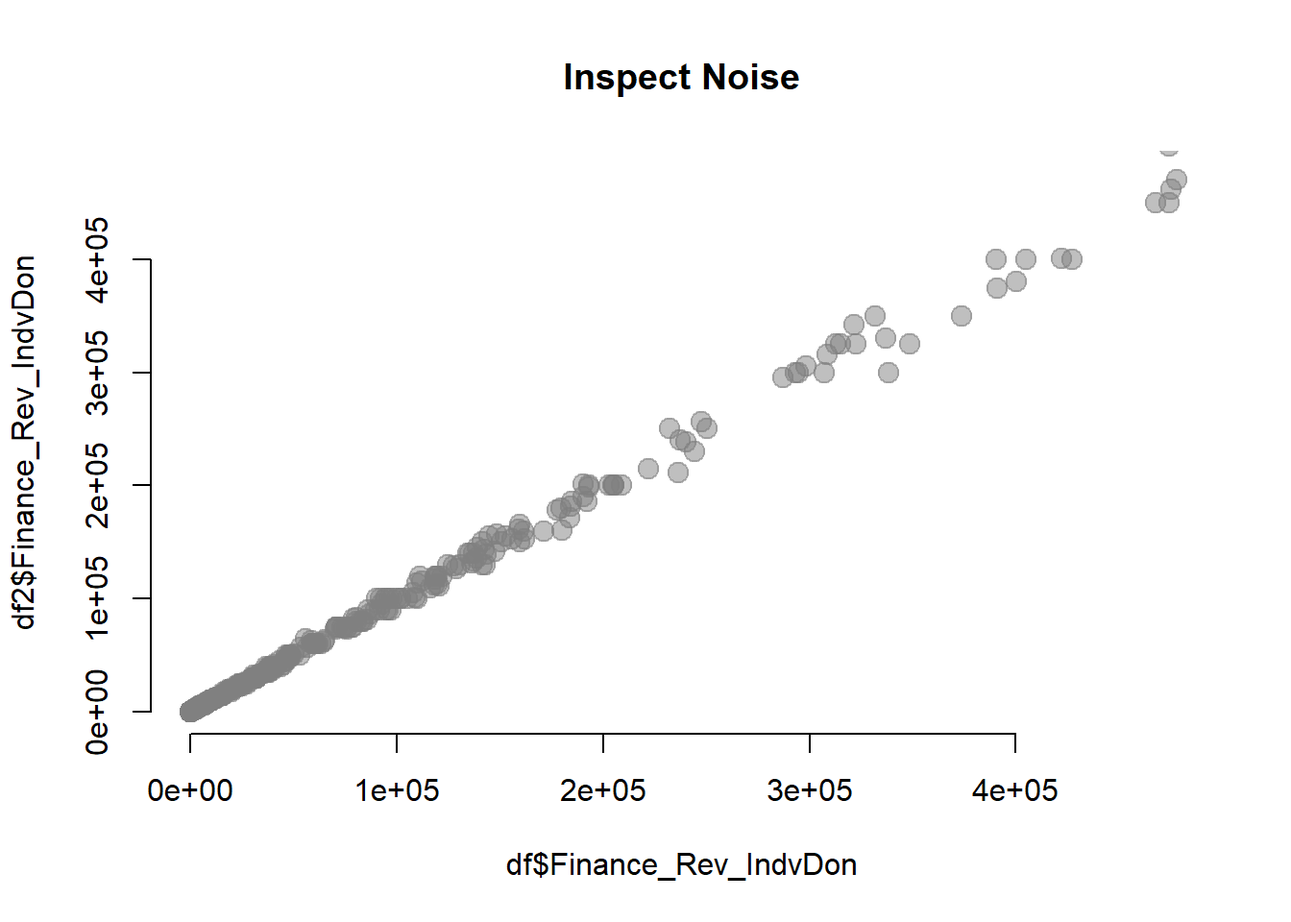
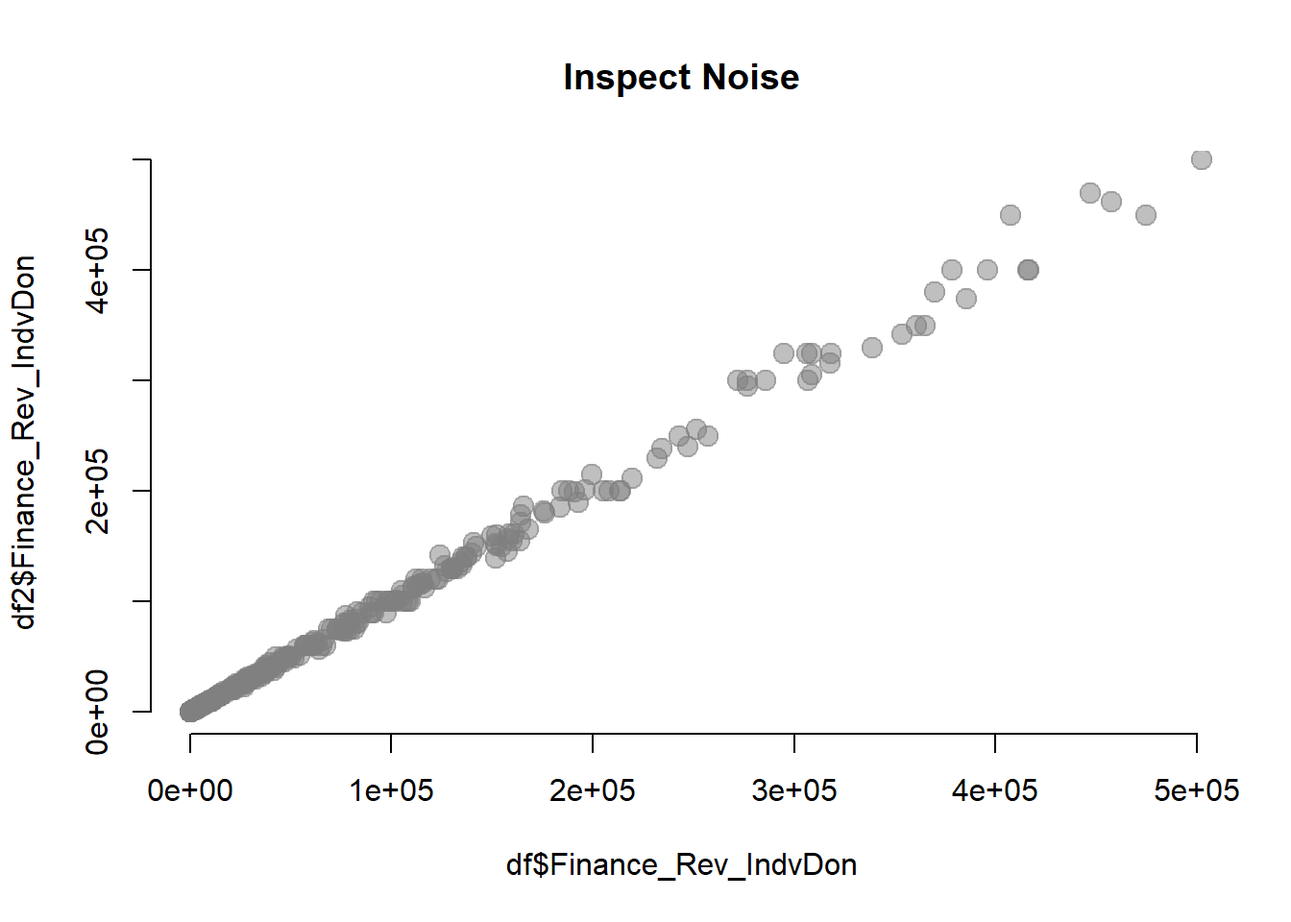
update PUF

diff --git a/data-guidebook/GUIDEBOOK/3_04-prepping-puf-y3.html b/data-guidebook/GUIDEBOOK/3_04-prepping-puf-y3.html
@@ -250,18 +250,6 @@ pre > code.sourceCode > span > a:first-child::before { text-decoration: underlin
  <span class="menu-text"><span class="chapter-number">12</span>&nbsp; <span class="chapter-title">Address Validation</span></span></a>
   </div>
 </li>
-          <li class="sidebar-item">
-  <div class="sidebar-item-container"> 
-  <a href="./4_02-geocoding-addresses.html" class="sidebar-item-text sidebar-link">
- <span class="menu-text"><span class="chapter-number">13</span>&nbsp; <span class="chapter-title">Geocoding Addresses</span></span></a>
-  </div>
-</li>
-          <li class="sidebar-item">
-  <div class="sidebar-item-container"> 
-  <a href="./4_03-adding-geographies.html" class="sidebar-item-text sidebar-link">
- <span class="menu-text"><span class="chapter-number">14</span>&nbsp; <span class="chapter-title">Adding Census Data</span></span></a>
-  </div>
-</li>
       </ul>
   </li>
         <li class="sidebar-item sidebar-item-section">
@@ -341,81 +329,82 @@ pre > code.sourceCode > span > a:first-child::before { text-decoration: underlin
 <span id="cb2-7"><a href="#cb2-7" aria-hidden="true" tabindex="-1"></a>    <span class="st">"Staff_Other_Est_NA"</span>, <span class="st">"FndRaise_Text"</span>, <span class="st">"Finance_Rev_Oth_Text"</span>, </span>
 <span id="cb2-8"><a href="#cb2-8" aria-hidden="true" tabindex="-1"></a>    <span class="st">"FinanceChng_Text"</span>, <span class="st">"LeadershipChng_Oth_Text"</span>, <span class="st">"CEOrace_Text"</span>, </span>
 <span id="cb2-9"><a href="#cb2-9" aria-hidden="true" tabindex="-1"></a>    <span class="st">"BChairrace_Text"</span>, <span class="st">"Regulations_Other_TEXT"</span>, <span class="st">"CEOrace_Text_v2022"</span>, </span>
-<span id="cb2-10"><a href="#cb2-10" aria-hidden="true" tabindex="-1"></a>    <span class="st">"BChairrace_Text_v2022"</span> )</span>
-<span id="cb2-11"><a href="#cb2-11" aria-hidden="true" tabindex="-1"></a>    </span>
-<span id="cb2-12"><a href="#cb2-12" aria-hidden="true" tabindex="-1"></a>keep <span class="ot">&lt;-</span> </span>
-<span id="cb2-13"><a href="#cb2-13" aria-hidden="true" tabindex="-1"></a>  <span class="fu">c</span>(<span class="st">"PrgSrvc_IncrNum"</span>, <span class="st">"PrgSrvc_DcrsNum"</span>, <span class="st">"PrgSrvc_Suspend"</span>, <span class="st">"PrgSrvc_IncrSrvc"</span>, </span>
-<span id="cb2-14"><a href="#cb2-14" aria-hidden="true" tabindex="-1"></a>    <span class="st">"PrgSrvc_DcrsSrvc"</span>, <span class="st">"PrgSrvc_NewOffc"</span>, <span class="st">"PrgSrvc_ClsdOffc"</span>, <span class="st">"PrgSrvc_IncrArea"</span>, </span>
-<span id="cb2-15"><a href="#cb2-15" aria-hidden="true" tabindex="-1"></a>    <span class="st">"PrgSrvc_DcrsArea"</span>, <span class="st">"PrgSrvc_IncrFee"</span>, <span class="st">"PrgSrvc_DcrsFee"</span>, <span class="st">"PrgSrvc_ShiftOnline"</span>, </span>
-<span id="cb2-16"><a href="#cb2-16" aria-hidden="true" tabindex="-1"></a>    <span class="st">"PrgSrvc_AddOnline"</span>, <span class="st">"PrgSrvc_Oth"</span>, <span class="st">"PplSrv_NumServed"</span>, <span class="st">"PplSrv_NumWait"</span>, </span>
-<span id="cb2-17"><a href="#cb2-17" aria-hidden="true" tabindex="-1"></a>    <span class="st">"PplSrv_NumServed_NA_X"</span>, <span class="st">"PplSrv_NumWait_NA_X"</span>, <span class="st">"Dmnd_NxtYear"</span>, </span>
-<span id="cb2-18"><a href="#cb2-18" aria-hidden="true" tabindex="-1"></a>    <span class="st">"Staff_Fulltime_2022"</span>, <span class="st">"Staff_Parttime_2022"</span>, <span class="st">"Staff_Boardmmbr_2022"</span>, </span>
-<span id="cb2-19"><a href="#cb2-19" aria-hidden="true" tabindex="-1"></a>    <span class="st">"Staff_RegVlntr_2022"</span>, <span class="st">"Staff_EpsdVltnr_2022"</span>, <span class="st">"Staff_AmerVlntr_2022"</span>, </span>
-<span id="cb2-20"><a href="#cb2-20" aria-hidden="true" tabindex="-1"></a>    <span class="st">"Staff_PdCnslt_2022"</span>, <span class="st">"Staff_Other_Est_2022"</span>, <span class="st">"Staff_Fulltime_2023"</span>, </span>
-<span id="cb2-21"><a href="#cb2-21" aria-hidden="true" tabindex="-1"></a>    <span class="st">"Staff_Parttime_2023"</span>, <span class="st">"Staff_Boardmmbr_2023"</span>, <span class="st">"Staff_RegVlntr_2023"</span>, </span>
-<span id="cb2-22"><a href="#cb2-22" aria-hidden="true" tabindex="-1"></a>    <span class="st">"Staff_EpsdVltnr_2023"</span>, <span class="st">"Staff_AmerVlntr_2023"</span>, <span class="st">"Staff_PdCnslt_2023"</span>, </span>
-<span id="cb2-23"><a href="#cb2-23" aria-hidden="true" tabindex="-1"></a>    <span class="st">"Staff_Other_Est_2023"</span>, <span class="st">"Staff_Fulltime_NA"</span>, <span class="st">"Staff_Parttime_NA"</span>, </span>
-<span id="cb2-24"><a href="#cb2-24" aria-hidden="true" tabindex="-1"></a>    <span class="st">"Staff_Boardmmbr_NA"</span>, <span class="st">"Staff_RegVlntr_NA"</span>, <span class="st">"Staff_EpsdVltnr_NA"</span>, </span>
-<span id="cb2-25"><a href="#cb2-25" aria-hidden="true" tabindex="-1"></a>    <span class="st">"Staff_AmerVlntr_NA"</span>, <span class="st">"Staff_PdCnslt_NA"</span>,  <span class="st">"Staff_Other_Text_NA"</span>,</span>
-<span id="cb2-26"><a href="#cb2-26" aria-hidden="true" tabindex="-1"></a>    <span class="st">"VolImportance"</span>, <span class="st">"DonImportance"</span>, <span class="st">"FndRaise_DvlpVirtual"</span>, <span class="st">"FndRaise_IncrExp"</span>, </span>
-<span id="cb2-27"><a href="#cb2-27" aria-hidden="true" tabindex="-1"></a>    <span class="st">"FndRaise_DcrsExp"</span>, <span class="st">"FndRaise_IncStaff"</span>, <span class="st">"FndRaise_DcrsStaff"</span>, </span>
-<span id="cb2-28"><a href="#cb2-28" aria-hidden="true" tabindex="-1"></a>    <span class="st">"FndRaise_IncrCnslt"</span>, <span class="st">"FndRaise_DcrsCnslt"</span>, <span class="st">"FndRaise_IncrVolntr"</span>, </span>
-<span id="cb2-29"><a href="#cb2-29" aria-hidden="true" tabindex="-1"></a>    <span class="st">"FndRaise_DcrsVolntr"</span>, <span class="st">"FndRaise_Othr"</span>, <span class="st">"FndRaise_MajGift_Amt"</span>, </span>
-<span id="cb2-30"><a href="#cb2-30" aria-hidden="true" tabindex="-1"></a>    <span class="st">"FndRaise_Overall_Chng"</span>, <span class="st">"FndRaise_Cashbelow250_Chng"</span>, <span class="st">"FndRaise_Cashabove250_Chng"</span>, </span>
-<span id="cb2-31"><a href="#cb2-31" aria-hidden="true" tabindex="-1"></a>    <span class="st">"FndRaise_MajGift_Chng"</span>, <span class="st">"FndRaise_Corp_Found_Grnt_Chng"</span>, <span class="st">"FndRaise_RstrGift_Chng"</span>, </span>
-<span id="cb2-32"><a href="#cb2-32" aria-hidden="true" tabindex="-1"></a>    <span class="st">"FndRaise_UnrstrGift_Chng"</span>, <span class="st">"FndRaise_DnrBlw250"</span>, <span class="st">"FndRaise_DnrAbv250"</span>, </span>
-<span id="cb2-33"><a href="#cb2-33" aria-hidden="true" tabindex="-1"></a>    <span class="st">"FndRaise_LocGvtGrnt_Seek"</span>, <span class="st">"FndRaise_StateGvtGrnt_Seek"</span>, <span class="st">"FndRaise_FedGvtGrnt_Seek"</span>, </span>
-<span id="cb2-34"><a href="#cb2-34" aria-hidden="true" tabindex="-1"></a>    <span class="st">"FndRaise_LocGvtCntrct_Seek"</span>, <span class="st">"FndRaise_StateGvtCntrct_Seek"</span>, </span>
-<span id="cb2-35"><a href="#cb2-35" aria-hidden="true" tabindex="-1"></a>    <span class="st">"FndRaise_FedGvtCntrct_Seek"</span>, <span class="st">"FndRaise_PFGrnt_Seek"</span>, <span class="st">"FndRaise_CFGrnt_Seek"</span>, </span>
-<span id="cb2-36"><a href="#cb2-36" aria-hidden="true" tabindex="-1"></a>    <span class="st">"FndRaise_DAF_Seek"</span>, <span class="st">"FndRaise_Corp_Found_Grnt_Seek"</span>, <span class="st">"FndRaise_UntdWy_Seek"</span>, </span>
-<span id="cb2-37"><a href="#cb2-37" aria-hidden="true" tabindex="-1"></a>    <span class="st">"FndRaise_CombFedCmpgn_Seek"</span>, <span class="st">"FndRaise_OthrGvngPrgrm_Seek"</span>, </span>
-<span id="cb2-38"><a href="#cb2-38" aria-hidden="true" tabindex="-1"></a>    <span class="st">"FndRaise_LocGvtGrnt_Rcv"</span>, <span class="st">"FndRaise_StateGvtGrnt_Rcv"</span>, <span class="st">"FndRaise_FedGvtGrnt_Rcv"</span>, </span>
-<span id="cb2-39"><a href="#cb2-39" aria-hidden="true" tabindex="-1"></a>    <span class="st">"FndRaise_LocGvtCntrct_Rcv"</span>, <span class="st">"FndRaise_StateGvtCntrct_Rcv"</span>, <span class="st">"FndRaise_FedGvtCntrct_Rcv"</span>, </span>
-<span id="cb2-40"><a href="#cb2-40" aria-hidden="true" tabindex="-1"></a>    <span class="st">"FndRaise_PFGrnt_Rcv"</span>, <span class="st">"FndRaise_CFGrnt_Rcv"</span>, <span class="st">"FndRaise_DAF_Rcv"</span>, </span>
-<span id="cb2-41"><a href="#cb2-41" aria-hidden="true" tabindex="-1"></a>    <span class="st">"FndRaise_Corp_Found_Grnt_Rcv"</span>, <span class="st">"FndRaise_UntdWy_Rcv"</span>, <span class="st">"FndRaise_CombFedCmpgn_Rcv"</span>, </span>
-<span id="cb2-42"><a href="#cb2-42" aria-hidden="true" tabindex="-1"></a>    <span class="st">"FndRaise_OthrGvngPrgrm_Rcv"</span>, <span class="st">"Finance_Rev_GovtMain"</span>, <span class="st">"Finance_Rev_Prtcpnt"</span>, </span>
-<span id="cb2-43"><a href="#cb2-43" aria-hidden="true" tabindex="-1"></a>    <span class="st">"Finance_Rev_IndvDon"</span>, <span class="st">"Finance_Rev_Gift"</span>, <span class="st">"Finance_Rev_Grnt"</span>, </span>
-<span id="cb2-44"><a href="#cb2-44" aria-hidden="true" tabindex="-1"></a>    <span class="st">"Finance_Rev_Spnsr"</span>, <span class="st">"Finance_Rev_Oth"</span>, <span class="st">"Reserves_Est"</span>, <span class="st">"Reserves_NA_X"</span>, </span>
-<span id="cb2-45"><a href="#cb2-45" aria-hidden="true" tabindex="-1"></a>    <span class="st">"CARES_Rcv"</span>, <span class="st">"CARES_Rcv_Est"</span>, <span class="st">"FinanceChng_Reserves"</span>, <span class="st">"FinanceChng_Borrow"</span>, </span>
-<span id="cb2-46"><a href="#cb2-46" aria-hidden="true" tabindex="-1"></a>    <span class="st">"FinanceChng_DcrsBnft"</span>, <span class="st">"FinanceChng_IncrBnft"</span>, <span class="st">"FinanceChng_IncrExp"</span>, </span>
-<span id="cb2-47"><a href="#cb2-47" aria-hidden="true" tabindex="-1"></a>    <span class="st">"FinanceChng_DcrsExp"</span>, <span class="st">"FinanceChng_Oth"</span>, <span class="st">"LeadershipChng_RetCEO"</span>, </span>
-<span id="cb2-48"><a href="#cb2-48" aria-hidden="true" tabindex="-1"></a>    <span class="st">"LeadershipChng_RsgnCEO"</span>, <span class="st">"LeadershipChng_TrmnCEO"</span>, <span class="st">"LeadershipChng_HireCEO"</span>, </span>
-<span id="cb2-49"><a href="#cb2-49" aria-hidden="true" tabindex="-1"></a>    <span class="st">"LeadershipChng_IntrmCEO"</span>, <span class="st">"LeadershipChng_ChngBC"</span>, <span class="st">"LeadershipChng_LostBoardMem"</span>, </span>
-<span id="cb2-50"><a href="#cb2-50" aria-hidden="true" tabindex="-1"></a>    <span class="st">"LeadershipChng_RplcBoardMem"</span>, <span class="st">"LeadershipChng_AddBoardMem"</span>, </span>
-<span id="cb2-51"><a href="#cb2-51" aria-hidden="true" tabindex="-1"></a>    <span class="st">"LeadershipChng_Oth"</span>, <span class="st">"CEOrace_AAPI"</span>, <span class="st">"CEOrace_Black"</span>, <span class="st">"CEOrace_Hisp"</span>, </span>
-<span id="cb2-52"><a href="#cb2-52" aria-hidden="true" tabindex="-1"></a>    <span class="st">"CEOrace_NativeAm"</span>, <span class="st">"CEOrace_White"</span>, <span class="st">"CEOrace_Oth"</span>, <span class="st">"CEOgender_Man"</span>, </span>
-<span id="cb2-53"><a href="#cb2-53" aria-hidden="true" tabindex="-1"></a>    <span class="st">"CEOgender_Woman"</span>, <span class="st">"CEOgender_Trans"</span>, <span class="st">"CEOgender_NB"</span>, <span class="st">"CEOgender_Oth"</span>, </span>
-<span id="cb2-54"><a href="#cb2-54" aria-hidden="true" tabindex="-1"></a>    <span class="st">"CEOgender_specify"</span>, <span class="st">"BChairrace_AAPI"</span>, <span class="st">"BChairrace_Black"</span>, <span class="st">"BChairrace_Hisp"</span>, </span>
-<span id="cb2-55"><a href="#cb2-55" aria-hidden="true" tabindex="-1"></a>    <span class="st">"BChairrace_NativeAm"</span>, <span class="st">"BChairrace_White"</span>, <span class="st">"BChairrace_Oth"</span>, </span>
-<span id="cb2-56"><a href="#cb2-56" aria-hidden="true" tabindex="-1"></a>    <span class="st">"BChairgender_Man"</span>, <span class="st">"BChairgender_Woman"</span>, <span class="st">"BChairgender_Trans"</span>, </span>
-<span id="cb2-57"><a href="#cb2-57" aria-hidden="true" tabindex="-1"></a>    <span class="st">"BChairgender_NB"</span>, <span class="st">"BChairgender_Oth"</span>, <span class="st">"BChairgender_specify"</span>, </span>
-<span id="cb2-58"><a href="#cb2-58" aria-hidden="true" tabindex="-1"></a>    <span class="st">"ExtAffairs_GenEd"</span>, <span class="st">"ExtAffairs_Media"</span>, <span class="st">"ExtAffairs_Advocacy"</span>, </span>
-<span id="cb2-59"><a href="#cb2-59" aria-hidden="true" tabindex="-1"></a>    <span class="st">"ExtAffairs_GovtRs"</span>, <span class="st">"ExtAffairs_DiscGovtGrnt"</span>, <span class="st">"ExtAffairs_InfoReq"</span>, </span>
-<span id="cb2-60"><a href="#cb2-60" aria-hidden="true" tabindex="-1"></a>    <span class="st">"ExtAffairs_Testify"</span>, <span class="st">"ExtAffairs_Lobby"</span>, <span class="st">"ExtAffairs_OrgPrtst"</span>, </span>
-<span id="cb2-61"><a href="#cb2-61" aria-hidden="true" tabindex="-1"></a>    <span class="st">"ExtAffairs_Mobilize"</span>, <span class="st">"ExtAffairs_Petition"</span>, <span class="st">"ExtAffairs_VoteReg"</span>, </span>
-<span id="cb2-62"><a href="#cb2-62" aria-hidden="true" tabindex="-1"></a>    <span class="st">"ExtAffairs_VoteEd"</span>, <span class="st">"Regulations"</span>, <span class="st">"Regulations_Local"</span>, <span class="st">"Regulations_State"</span>, </span>
-<span id="cb2-63"><a href="#cb2-63" aria-hidden="true" tabindex="-1"></a>    <span class="st">"Regulations_Federal"</span>, <span class="st">"Regulations_Info"</span>, <span class="st">"Regulations_Programming"</span>, </span>
-<span id="cb2-64"><a href="#cb2-64" aria-hidden="true" tabindex="-1"></a>    <span class="st">"Regulations_Forms"</span>, <span class="st">"Regulations_Requests"</span>, <span class="st">"Regulations_Advocate"</span>, </span>
-<span id="cb2-65"><a href="#cb2-65" aria-hidden="true" tabindex="-1"></a>    <span class="st">"Regulations_Research"</span>, <span class="st">"Regulations_Other"</span>, <span class="st">"PrimaryConcern"</span>, </span>
-<span id="cb2-66"><a href="#cb2-66" aria-hidden="true" tabindex="-1"></a>    <span class="st">"StaffingPlans_HireDifferent"</span>, <span class="st">"StaffingPlans_HireSame"</span>, <span class="st">"StaffingPlans_Layoff"</span>, </span>
-<span id="cb2-67"><a href="#cb2-67" aria-hidden="true" tabindex="-1"></a>    <span class="st">"StaffingPlans_SlowDown"</span>, <span class="st">"StaffingPlans_SpeedUp"</span>, <span class="st">"StaffingPlans_LoseVoluntary"</span>, </span>
-<span id="cb2-68"><a href="#cb2-68" aria-hidden="true" tabindex="-1"></a>    <span class="st">"StaffingPlans_LoseRetirement"</span>, <span class="st">"StaffingPlans_Retrain"</span>, <span class="st">"StaffingPlans_NoChange"</span>, </span>
-<span id="cb2-69"><a href="#cb2-69" aria-hidden="true" tabindex="-1"></a>    <span class="st">"StaffingPlans_DK"</span>, <span class="st">"ContactUpdateName"</span>, <span class="st">"ContactUpdateTitle"</span>, </span>
-<span id="cb2-70"><a href="#cb2-70" aria-hidden="true" tabindex="-1"></a>    <span class="st">"ContactUpdateEmail"</span>, <span class="st">"Comments"</span>, <span class="st">"year3wt"</span>, <span class="st">"Staff_Fulltime_2023_imp"</span>, </span>
-<span id="cb2-71"><a href="#cb2-71" aria-hidden="true" tabindex="-1"></a>    <span class="st">"Staff_Parttime_2023_imp"</span>, <span class="st">"Staff_Boardmmbr_2023_imp"</span>, <span class="st">"Staff_RegVlntr_2023_imp"</span>, </span>
-<span id="cb2-72"><a href="#cb2-72" aria-hidden="true" tabindex="-1"></a>    <span class="st">"Staff_EpsdVltnr_2023_imp"</span>, <span class="st">"Staff_AmerVlntr_2023_imp"</span>, <span class="st">"Staff_PdCnslt_2023_imp"</span>, </span>
-<span id="cb2-73"><a href="#cb2-73" aria-hidden="true" tabindex="-1"></a>    <span class="st">"CEOrace_AAPI_v2022"</span>, <span class="st">"CEOrace_Black_v2022"</span>, <span class="st">"CEOrace_Hisp_v2022"</span>, </span>
-<span id="cb2-74"><a href="#cb2-74" aria-hidden="true" tabindex="-1"></a>    <span class="st">"CEOrace_NativeAm_v2022"</span>, <span class="st">"CEOrace_White_v2022"</span>, <span class="st">"CEOrace_Oth_v2022"</span>, </span>
-<span id="cb2-75"><a href="#cb2-75" aria-hidden="true" tabindex="-1"></a>    <span class="st">"CEOgender_Man_v2022"</span>, <span class="st">"CEOgender_Woman_v2022"</span>, <span class="st">"CEOgender_Trans_v2022"</span>, </span>
-<span id="cb2-76"><a href="#cb2-76" aria-hidden="true" tabindex="-1"></a>    <span class="st">"CEOgender_NB_v2022"</span>, <span class="st">"CEOgender_Oth_v2022"</span>, <span class="st">"CEOgender_specify_v2022"</span>, </span>
-<span id="cb2-77"><a href="#cb2-77" aria-hidden="true" tabindex="-1"></a>    <span class="st">"BChairrace_AAPI_v2022"</span>, <span class="st">"BChairrace_Black_v2022"</span>, <span class="st">"BChairrace_Hisp_v2022"</span>, </span>
-<span id="cb2-78"><a href="#cb2-78" aria-hidden="true" tabindex="-1"></a>    <span class="st">"BChairrace_NativeAm_v2022"</span>, <span class="st">"BChairrace_White_v2022"</span>, <span class="st">"BChairrace_Oth_v2022"</span>, </span>
-<span id="cb2-79"><a href="#cb2-79" aria-hidden="true" tabindex="-1"></a>    <span class="st">"BChairgender_Man_v2022"</span>, <span class="st">"BChairgender_Woman_v2022"</span>, <span class="st">"BChairgender_Trans_v2022"</span>, </span>
-<span id="cb2-80"><a href="#cb2-80" aria-hidden="true" tabindex="-1"></a>    <span class="st">"BChairgender_NB_v2022"</span>, <span class="st">"BChairgender_Oth_v2022"</span>, <span class="st">"BChairgender_specify_v2022"</span>, </span>
-<span id="cb2-81"><a href="#cb2-81" aria-hidden="true" tabindex="-1"></a>    <span class="st">"CEOrace_Bi"</span>, <span class="st">"BChairrace_Bi"</span>, <span class="st">"CEOrace"</span>, <span class="st">"BChairrace"</span>, <span class="st">"CEOgender"</span>, </span>
-<span id="cb2-82"><a href="#cb2-82" aria-hidden="true" tabindex="-1"></a>    <span class="st">"BChairgender"</span>)</span>
-<span id="cb2-83"><a href="#cb2-83" aria-hidden="true" tabindex="-1"></a></span>
-<span id="cb2-84"><a href="#cb2-84" aria-hidden="true" tabindex="-1"></a>df <span class="ot">&lt;-</span> df[keep]</span></code><button title="Copy to Clipboard" class="code-copy-button"><i class="bi"></i></button></pre></div>
+<span id="cb2-10"><a href="#cb2-10" aria-hidden="true" tabindex="-1"></a>    <span class="st">"BChairrace_Text_v2022"</span>,</span>
+<span id="cb2-11"><a href="#cb2-11" aria-hidden="true" tabindex="-1"></a>    <span class="st">"ContactUpdateName"</span>, <span class="st">"ContactUpdateTitle"</span>, </span>
+<span id="cb2-12"><a href="#cb2-12" aria-hidden="true" tabindex="-1"></a>    <span class="st">"ContactUpdateEmail"</span>, <span class="st">"Comments"</span>)</span>
+<span id="cb2-13"><a href="#cb2-13" aria-hidden="true" tabindex="-1"></a>    </span>
+<span id="cb2-14"><a href="#cb2-14" aria-hidden="true" tabindex="-1"></a>keep <span class="ot">&lt;-</span> </span>
+<span id="cb2-15"><a href="#cb2-15" aria-hidden="true" tabindex="-1"></a>  <span class="fu">c</span>(<span class="st">"PrgSrvc_IncrNum"</span>, <span class="st">"PrgSrvc_DcrsNum"</span>, <span class="st">"PrgSrvc_Suspend"</span>, <span class="st">"PrgSrvc_IncrSrvc"</span>, </span>
+<span id="cb2-16"><a href="#cb2-16" aria-hidden="true" tabindex="-1"></a>    <span class="st">"PrgSrvc_DcrsSrvc"</span>, <span class="st">"PrgSrvc_NewOffc"</span>, <span class="st">"PrgSrvc_ClsdOffc"</span>, <span class="st">"PrgSrvc_IncrArea"</span>, </span>
+<span id="cb2-17"><a href="#cb2-17" aria-hidden="true" tabindex="-1"></a>    <span class="st">"PrgSrvc_DcrsArea"</span>, <span class="st">"PrgSrvc_IncrFee"</span>, <span class="st">"PrgSrvc_DcrsFee"</span>, <span class="st">"PrgSrvc_ShiftOnline"</span>, </span>
+<span id="cb2-18"><a href="#cb2-18" aria-hidden="true" tabindex="-1"></a>    <span class="st">"PrgSrvc_AddOnline"</span>, <span class="st">"PrgSrvc_Oth"</span>, <span class="st">"PplSrv_NumServed"</span>, <span class="st">"PplSrv_NumWait"</span>, </span>
+<span id="cb2-19"><a href="#cb2-19" aria-hidden="true" tabindex="-1"></a>    <span class="st">"PplSrv_NumServed_NA_X"</span>, <span class="st">"PplSrv_NumWait_NA_X"</span>, <span class="st">"Dmnd_NxtYear"</span>, </span>
+<span id="cb2-20"><a href="#cb2-20" aria-hidden="true" tabindex="-1"></a>    <span class="st">"Staff_Fulltime_2022"</span>, <span class="st">"Staff_Parttime_2022"</span>, <span class="st">"Staff_Boardmmbr_2022"</span>, </span>
+<span id="cb2-21"><a href="#cb2-21" aria-hidden="true" tabindex="-1"></a>    <span class="st">"Staff_RegVlntr_2022"</span>, <span class="st">"Staff_EpsdVltnr_2022"</span>, <span class="st">"Staff_AmerVlntr_2022"</span>, </span>
+<span id="cb2-22"><a href="#cb2-22" aria-hidden="true" tabindex="-1"></a>    <span class="st">"Staff_PdCnslt_2022"</span>, <span class="st">"Staff_Other_Est_2022"</span>, <span class="st">"Staff_Fulltime_2023"</span>, </span>
+<span id="cb2-23"><a href="#cb2-23" aria-hidden="true" tabindex="-1"></a>    <span class="st">"Staff_Parttime_2023"</span>, <span class="st">"Staff_Boardmmbr_2023"</span>, <span class="st">"Staff_RegVlntr_2023"</span>, </span>
+<span id="cb2-24"><a href="#cb2-24" aria-hidden="true" tabindex="-1"></a>    <span class="st">"Staff_EpsdVltnr_2023"</span>, <span class="st">"Staff_AmerVlntr_2023"</span>, <span class="st">"Staff_PdCnslt_2023"</span>, </span>
+<span id="cb2-25"><a href="#cb2-25" aria-hidden="true" tabindex="-1"></a>    <span class="st">"Staff_Other_Est_2023"</span>, <span class="st">"Staff_Fulltime_NA"</span>, <span class="st">"Staff_Parttime_NA"</span>, </span>
+<span id="cb2-26"><a href="#cb2-26" aria-hidden="true" tabindex="-1"></a>    <span class="st">"Staff_Boardmmbr_NA"</span>, <span class="st">"Staff_RegVlntr_NA"</span>, <span class="st">"Staff_EpsdVltnr_NA"</span>, </span>
+<span id="cb2-27"><a href="#cb2-27" aria-hidden="true" tabindex="-1"></a>    <span class="st">"Staff_AmerVlntr_NA"</span>, <span class="st">"Staff_PdCnslt_NA"</span>,  <span class="st">"Staff_Other_Text_NA"</span>,</span>
+<span id="cb2-28"><a href="#cb2-28" aria-hidden="true" tabindex="-1"></a>    <span class="st">"VolImportance"</span>, <span class="st">"DonImportance"</span>, <span class="st">"FndRaise_DvlpVirtual"</span>, <span class="st">"FndRaise_IncrExp"</span>, </span>
+<span id="cb2-29"><a href="#cb2-29" aria-hidden="true" tabindex="-1"></a>    <span class="st">"FndRaise_DcrsExp"</span>, <span class="st">"FndRaise_IncStaff"</span>, <span class="st">"FndRaise_DcrsStaff"</span>, </span>
+<span id="cb2-30"><a href="#cb2-30" aria-hidden="true" tabindex="-1"></a>    <span class="st">"FndRaise_IncrCnslt"</span>, <span class="st">"FndRaise_DcrsCnslt"</span>, <span class="st">"FndRaise_IncrVolntr"</span>, </span>
+<span id="cb2-31"><a href="#cb2-31" aria-hidden="true" tabindex="-1"></a>    <span class="st">"FndRaise_DcrsVolntr"</span>, <span class="st">"FndRaise_Othr"</span>, <span class="st">"FndRaise_MajGift_Amt"</span>, </span>
+<span id="cb2-32"><a href="#cb2-32" aria-hidden="true" tabindex="-1"></a>    <span class="st">"FndRaise_Overall_Chng"</span>, <span class="st">"FndRaise_Cashbelow250_Chng"</span>, <span class="st">"FndRaise_Cashabove250_Chng"</span>, </span>
+<span id="cb2-33"><a href="#cb2-33" aria-hidden="true" tabindex="-1"></a>    <span class="st">"FndRaise_MajGift_Chng"</span>, <span class="st">"FndRaise_Corp_Found_Grnt_Chng"</span>, <span class="st">"FndRaise_RstrGift_Chng"</span>, </span>
+<span id="cb2-34"><a href="#cb2-34" aria-hidden="true" tabindex="-1"></a>    <span class="st">"FndRaise_UnrstrGift_Chng"</span>, <span class="st">"FndRaise_DnrBlw250"</span>, <span class="st">"FndRaise_DnrAbv250"</span>, </span>
+<span id="cb2-35"><a href="#cb2-35" aria-hidden="true" tabindex="-1"></a>    <span class="st">"FndRaise_LocGvtGrnt_Seek"</span>, <span class="st">"FndRaise_StateGvtGrnt_Seek"</span>, <span class="st">"FndRaise_FedGvtGrnt_Seek"</span>, </span>
+<span id="cb2-36"><a href="#cb2-36" aria-hidden="true" tabindex="-1"></a>    <span class="st">"FndRaise_LocGvtCntrct_Seek"</span>, <span class="st">"FndRaise_StateGvtCntrct_Seek"</span>, </span>
+<span id="cb2-37"><a href="#cb2-37" aria-hidden="true" tabindex="-1"></a>    <span class="st">"FndRaise_FedGvtCntrct_Seek"</span>, <span class="st">"FndRaise_PFGrnt_Seek"</span>, <span class="st">"FndRaise_CFGrnt_Seek"</span>, </span>
+<span id="cb2-38"><a href="#cb2-38" aria-hidden="true" tabindex="-1"></a>    <span class="st">"FndRaise_DAF_Seek"</span>, <span class="st">"FndRaise_Corp_Found_Grnt_Seek"</span>, <span class="st">"FndRaise_UntdWy_Seek"</span>, </span>
+<span id="cb2-39"><a href="#cb2-39" aria-hidden="true" tabindex="-1"></a>    <span class="st">"FndRaise_CombFedCmpgn_Seek"</span>, <span class="st">"FndRaise_OthrGvngPrgrm_Seek"</span>, </span>
+<span id="cb2-40"><a href="#cb2-40" aria-hidden="true" tabindex="-1"></a>    <span class="st">"FndRaise_LocGvtGrnt_Rcv"</span>, <span class="st">"FndRaise_StateGvtGrnt_Rcv"</span>, <span class="st">"FndRaise_FedGvtGrnt_Rcv"</span>, </span>
+<span id="cb2-41"><a href="#cb2-41" aria-hidden="true" tabindex="-1"></a>    <span class="st">"FndRaise_LocGvtCntrct_Rcv"</span>, <span class="st">"FndRaise_StateGvtCntrct_Rcv"</span>, <span class="st">"FndRaise_FedGvtCntrct_Rcv"</span>, </span>
+<span id="cb2-42"><a href="#cb2-42" aria-hidden="true" tabindex="-1"></a>    <span class="st">"FndRaise_PFGrnt_Rcv"</span>, <span class="st">"FndRaise_CFGrnt_Rcv"</span>, <span class="st">"FndRaise_DAF_Rcv"</span>, </span>
+<span id="cb2-43"><a href="#cb2-43" aria-hidden="true" tabindex="-1"></a>    <span class="st">"FndRaise_Corp_Found_Grnt_Rcv"</span>, <span class="st">"FndRaise_UntdWy_Rcv"</span>, <span class="st">"FndRaise_CombFedCmpgn_Rcv"</span>, </span>
+<span id="cb2-44"><a href="#cb2-44" aria-hidden="true" tabindex="-1"></a>    <span class="st">"FndRaise_OthrGvngPrgrm_Rcv"</span>, <span class="st">"Finance_Rev_GovtMain"</span>, <span class="st">"Finance_Rev_Prtcpnt"</span>, </span>
+<span id="cb2-45"><a href="#cb2-45" aria-hidden="true" tabindex="-1"></a>    <span class="st">"Finance_Rev_IndvDon"</span>, <span class="st">"Finance_Rev_Gift"</span>, <span class="st">"Finance_Rev_Grnt"</span>, </span>
+<span id="cb2-46"><a href="#cb2-46" aria-hidden="true" tabindex="-1"></a>    <span class="st">"Finance_Rev_Spnsr"</span>, <span class="st">"Finance_Rev_Oth"</span>, <span class="st">"Reserves_Est"</span>, <span class="st">"Reserves_NA_X"</span>, </span>
+<span id="cb2-47"><a href="#cb2-47" aria-hidden="true" tabindex="-1"></a>    <span class="st">"CARES_Rcv"</span>, <span class="st">"CARES_Rcv_Est"</span>, <span class="st">"FinanceChng_Reserves"</span>, <span class="st">"FinanceChng_Borrow"</span>, </span>
+<span id="cb2-48"><a href="#cb2-48" aria-hidden="true" tabindex="-1"></a>    <span class="st">"FinanceChng_DcrsBnft"</span>, <span class="st">"FinanceChng_IncrBnft"</span>, <span class="st">"FinanceChng_IncrExp"</span>, </span>
+<span id="cb2-49"><a href="#cb2-49" aria-hidden="true" tabindex="-1"></a>    <span class="st">"FinanceChng_DcrsExp"</span>, <span class="st">"FinanceChng_Oth"</span>, <span class="st">"LeadershipChng_RetCEO"</span>, </span>
+<span id="cb2-50"><a href="#cb2-50" aria-hidden="true" tabindex="-1"></a>    <span class="st">"LeadershipChng_RsgnCEO"</span>, <span class="st">"LeadershipChng_TrmnCEO"</span>, <span class="st">"LeadershipChng_HireCEO"</span>, </span>
+<span id="cb2-51"><a href="#cb2-51" aria-hidden="true" tabindex="-1"></a>    <span class="st">"LeadershipChng_IntrmCEO"</span>, <span class="st">"LeadershipChng_ChngBC"</span>, <span class="st">"LeadershipChng_LostBoardMem"</span>, </span>
+<span id="cb2-52"><a href="#cb2-52" aria-hidden="true" tabindex="-1"></a>    <span class="st">"LeadershipChng_RplcBoardMem"</span>, <span class="st">"LeadershipChng_AddBoardMem"</span>, </span>
+<span id="cb2-53"><a href="#cb2-53" aria-hidden="true" tabindex="-1"></a>    <span class="st">"LeadershipChng_Oth"</span>, <span class="st">"CEOrace_AAPI"</span>, <span class="st">"CEOrace_Black"</span>, <span class="st">"CEOrace_Hisp"</span>, </span>
+<span id="cb2-54"><a href="#cb2-54" aria-hidden="true" tabindex="-1"></a>    <span class="st">"CEOrace_NativeAm"</span>, <span class="st">"CEOrace_White"</span>, <span class="st">"CEOrace_Oth"</span>, <span class="st">"CEOgender_Man"</span>, </span>
+<span id="cb2-55"><a href="#cb2-55" aria-hidden="true" tabindex="-1"></a>    <span class="st">"CEOgender_Woman"</span>, <span class="st">"CEOgender_Trans"</span>, <span class="st">"CEOgender_NB"</span>, <span class="st">"CEOgender_Oth"</span>, </span>
+<span id="cb2-56"><a href="#cb2-56" aria-hidden="true" tabindex="-1"></a>    <span class="st">"CEOgender_specify"</span>, <span class="st">"BChairrace_AAPI"</span>, <span class="st">"BChairrace_Black"</span>, <span class="st">"BChairrace_Hisp"</span>, </span>
+<span id="cb2-57"><a href="#cb2-57" aria-hidden="true" tabindex="-1"></a>    <span class="st">"BChairrace_NativeAm"</span>, <span class="st">"BChairrace_White"</span>, <span class="st">"BChairrace_Oth"</span>, </span>
+<span id="cb2-58"><a href="#cb2-58" aria-hidden="true" tabindex="-1"></a>    <span class="st">"BChairgender_Man"</span>, <span class="st">"BChairgender_Woman"</span>, <span class="st">"BChairgender_Trans"</span>, </span>
+<span id="cb2-59"><a href="#cb2-59" aria-hidden="true" tabindex="-1"></a>    <span class="st">"BChairgender_NB"</span>, <span class="st">"BChairgender_Oth"</span>, <span class="st">"BChairgender_specify"</span>, </span>
+<span id="cb2-60"><a href="#cb2-60" aria-hidden="true" tabindex="-1"></a>    <span class="st">"ExtAffairs_GenEd"</span>, <span class="st">"ExtAffairs_Media"</span>, <span class="st">"ExtAffairs_Advocacy"</span>, </span>
+<span id="cb2-61"><a href="#cb2-61" aria-hidden="true" tabindex="-1"></a>    <span class="st">"ExtAffairs_GovtRs"</span>, <span class="st">"ExtAffairs_DiscGovtGrnt"</span>, <span class="st">"ExtAffairs_InfoReq"</span>, </span>
+<span id="cb2-62"><a href="#cb2-62" aria-hidden="true" tabindex="-1"></a>    <span class="st">"ExtAffairs_Testify"</span>, <span class="st">"ExtAffairs_Lobby"</span>, <span class="st">"ExtAffairs_OrgPrtst"</span>, </span>
+<span id="cb2-63"><a href="#cb2-63" aria-hidden="true" tabindex="-1"></a>    <span class="st">"ExtAffairs_Mobilize"</span>, <span class="st">"ExtAffairs_Petition"</span>, <span class="st">"ExtAffairs_VoteReg"</span>, </span>
+<span id="cb2-64"><a href="#cb2-64" aria-hidden="true" tabindex="-1"></a>    <span class="st">"ExtAffairs_VoteEd"</span>, <span class="st">"Regulations"</span>, <span class="st">"Regulations_Local"</span>, <span class="st">"Regulations_State"</span>, </span>
+<span id="cb2-65"><a href="#cb2-65" aria-hidden="true" tabindex="-1"></a>    <span class="st">"Regulations_Federal"</span>, <span class="st">"Regulations_Info"</span>, <span class="st">"Regulations_Programming"</span>, </span>
+<span id="cb2-66"><a href="#cb2-66" aria-hidden="true" tabindex="-1"></a>    <span class="st">"Regulations_Forms"</span>, <span class="st">"Regulations_Requests"</span>, <span class="st">"Regulations_Advocate"</span>, </span>
+<span id="cb2-67"><a href="#cb2-67" aria-hidden="true" tabindex="-1"></a>    <span class="st">"Regulations_Research"</span>, <span class="st">"Regulations_Other"</span>, <span class="st">"PrimaryConcern"</span>, </span>
+<span id="cb2-68"><a href="#cb2-68" aria-hidden="true" tabindex="-1"></a>    <span class="st">"StaffingPlans_HireDifferent"</span>, <span class="st">"StaffingPlans_HireSame"</span>, <span class="st">"StaffingPlans_Layoff"</span>, </span>
+<span id="cb2-69"><a href="#cb2-69" aria-hidden="true" tabindex="-1"></a>    <span class="st">"StaffingPlans_SlowDown"</span>, <span class="st">"StaffingPlans_SpeedUp"</span>, <span class="st">"StaffingPlans_LoseVoluntary"</span>, </span>
+<span id="cb2-70"><a href="#cb2-70" aria-hidden="true" tabindex="-1"></a>    <span class="st">"StaffingPlans_LoseRetirement"</span>, <span class="st">"StaffingPlans_Retrain"</span>, <span class="st">"StaffingPlans_NoChange"</span>, </span>
+<span id="cb2-71"><a href="#cb2-71" aria-hidden="true" tabindex="-1"></a>    <span class="st">"StaffingPlans_DK"</span>, <span class="st">"year3wt"</span>, <span class="st">"Staff_Fulltime_2023_imp"</span>, </span>
+<span id="cb2-72"><a href="#cb2-72" aria-hidden="true" tabindex="-1"></a>    <span class="st">"Staff_Parttime_2023_imp"</span>, <span class="st">"Staff_Boardmmbr_2023_imp"</span>, <span class="st">"Staff_RegVlntr_2023_imp"</span>, </span>
+<span id="cb2-73"><a href="#cb2-73" aria-hidden="true" tabindex="-1"></a>    <span class="st">"Staff_EpsdVltnr_2023_imp"</span>, <span class="st">"Staff_AmerVlntr_2023_imp"</span>, <span class="st">"Staff_PdCnslt_2023_imp"</span>, </span>
+<span id="cb2-74"><a href="#cb2-74" aria-hidden="true" tabindex="-1"></a>    <span class="st">"CEOrace_AAPI_v2022"</span>, <span class="st">"CEOrace_Black_v2022"</span>, <span class="st">"CEOrace_Hisp_v2022"</span>, </span>
+<span id="cb2-75"><a href="#cb2-75" aria-hidden="true" tabindex="-1"></a>    <span class="st">"CEOrace_NativeAm_v2022"</span>, <span class="st">"CEOrace_White_v2022"</span>, <span class="st">"CEOrace_Oth_v2022"</span>, </span>
+<span id="cb2-76"><a href="#cb2-76" aria-hidden="true" tabindex="-1"></a>    <span class="st">"CEOgender_Man_v2022"</span>, <span class="st">"CEOgender_Woman_v2022"</span>, <span class="st">"CEOgender_Trans_v2022"</span>, </span>
+<span id="cb2-77"><a href="#cb2-77" aria-hidden="true" tabindex="-1"></a>    <span class="st">"CEOgender_NB_v2022"</span>, <span class="st">"CEOgender_Oth_v2022"</span>, <span class="st">"CEOgender_specify_v2022"</span>, </span>
+<span id="cb2-78"><a href="#cb2-78" aria-hidden="true" tabindex="-1"></a>    <span class="st">"BChairrace_AAPI_v2022"</span>, <span class="st">"BChairrace_Black_v2022"</span>, <span class="st">"BChairrace_Hisp_v2022"</span>, </span>
+<span id="cb2-79"><a href="#cb2-79" aria-hidden="true" tabindex="-1"></a>    <span class="st">"BChairrace_NativeAm_v2022"</span>, <span class="st">"BChairrace_White_v2022"</span>, <span class="st">"BChairrace_Oth_v2022"</span>, </span>
+<span id="cb2-80"><a href="#cb2-80" aria-hidden="true" tabindex="-1"></a>    <span class="st">"BChairgender_Man_v2022"</span>, <span class="st">"BChairgender_Woman_v2022"</span>, <span class="st">"BChairgender_Trans_v2022"</span>, </span>
+<span id="cb2-81"><a href="#cb2-81" aria-hidden="true" tabindex="-1"></a>    <span class="st">"BChairgender_NB_v2022"</span>, <span class="st">"BChairgender_Oth_v2022"</span>, <span class="st">"BChairgender_specify_v2022"</span>, </span>
+<span id="cb2-82"><a href="#cb2-82" aria-hidden="true" tabindex="-1"></a>    <span class="st">"CEOrace_Bi"</span>, <span class="st">"BChairrace_Bi"</span>, <span class="st">"CEOrace"</span>, <span class="st">"BChairrace"</span>, <span class="st">"CEOgender"</span>, </span>
+<span id="cb2-83"><a href="#cb2-83" aria-hidden="true" tabindex="-1"></a>    <span class="st">"BChairgender"</span>)</span>
+<span id="cb2-84"><a href="#cb2-84" aria-hidden="true" tabindex="-1"></a></span>
+<span id="cb2-85"><a href="#cb2-85" aria-hidden="true" tabindex="-1"></a>df <span class="ot">&lt;-</span> df[keep]</span></code><button title="Copy to Clipboard" class="code-copy-button"><i class="bi"></i></button></pre></div>
 </div>
 </section>
 <section id="add-noise-to-numeric-responses" class="level2" data-number="11.3">
@@ -435,7 +424,7 @@ pre > code.sourceCode > span > a:first-child::before { text-decoration: underlin
 <span id="cb3-11"><a href="#cb3-11" aria-hidden="true" tabindex="-1"></a>    <span class="st">"FndRaise_MajGift_Amt"</span>, <span class="st">"FndRaise_DnrBlw250"</span>, <span class="st">"FndRaise_DnrAbv250"</span>, </span>
 <span id="cb3-12"><a href="#cb3-12" aria-hidden="true" tabindex="-1"></a>    <span class="st">"Finance_Rev_GovtMain"</span>, <span class="st">"Finance_Rev_Prtcpnt"</span>, <span class="st">"Finance_Rev_IndvDon"</span>, </span>
 <span id="cb3-13"><a href="#cb3-13" aria-hidden="true" tabindex="-1"></a>    <span class="st">"Finance_Rev_Gift"</span>, <span class="st">"Finance_Rev_Grnt"</span>, <span class="st">"Finance_Rev_Spnsr"</span>, </span>
-<span id="cb3-14"><a href="#cb3-14" aria-hidden="true" tabindex="-1"></a>    <span class="st">"Finance_Rev_Oth"</span>, <span class="st">"Reserves_Est"</span>, <span class="st">"CARES_Rcv_Est"</span>, <span class="st">"year3wt"</span>, </span>
+<span id="cb3-14"><a href="#cb3-14" aria-hidden="true" tabindex="-1"></a>    <span class="st">"Finance_Rev_Oth"</span>, <span class="st">"Reserves_Est"</span>, <span class="st">"CARES_Rcv_Est"</span>,  </span>
 <span id="cb3-15"><a href="#cb3-15" aria-hidden="true" tabindex="-1"></a>    <span class="st">"Staff_Fulltime_2023_imp"</span>, <span class="st">"Staff_Parttime_2023_imp"</span>, <span class="st">"Staff_Boardmmbr_2023_imp"</span>, </span>
 <span id="cb3-16"><a href="#cb3-16" aria-hidden="true" tabindex="-1"></a>    <span class="st">"Staff_RegVlntr_2023_imp"</span>, <span class="st">"Staff_EpsdVltnr_2023_imp"</span>, <span class="st">"Staff_AmerVlntr_2023_imp"</span>, </span>
 <span id="cb3-17"><a href="#cb3-17" aria-hidden="true" tabindex="-1"></a>    <span class="st">"Staff_PdCnslt_2023_imp"</span>, <span class="st">"CEOgender_specify_v2022"</span>)</span>
@@ -450,7 +439,7 @@ pre > code.sourceCode > span > a:first-child::before { text-decoration: underlin
 <span id="cb3-26"><a href="#cb3-26" aria-hidden="true" tabindex="-1"></a></span>
 <span id="cb3-27"><a href="#cb3-27" aria-hidden="true" tabindex="-1"></a><span class="fu">add_noise</span>( <span class="dv">3000</span> )</span></code><button title="Copy to Clipboard" class="code-copy-button"><i class="bi"></i></button></pre></div>
 <div class="cell-output cell-output-stdout">
-<pre><code>[1] 2824</code></pre>
+<pre><code>[1] 3285</code></pre>
 </div>
 <div class="sourceCode cell-code" id="cb5"><pre class="sourceCode r code-with-copy"><code class="sourceCode r"><span id="cb5-1"><a href="#cb5-1" aria-hidden="true" tabindex="-1"></a>make_noise <span class="ot">&lt;-</span> <span class="cf">function</span>(x){</span>
 <span id="cb5-2"><a href="#cb5-2" aria-hidden="true" tabindex="-1"></a>  x <span class="ot">&lt;-</span> purrr<span class="sc">::</span><span class="fu">map_dbl</span>( x, add_noise )</span>
